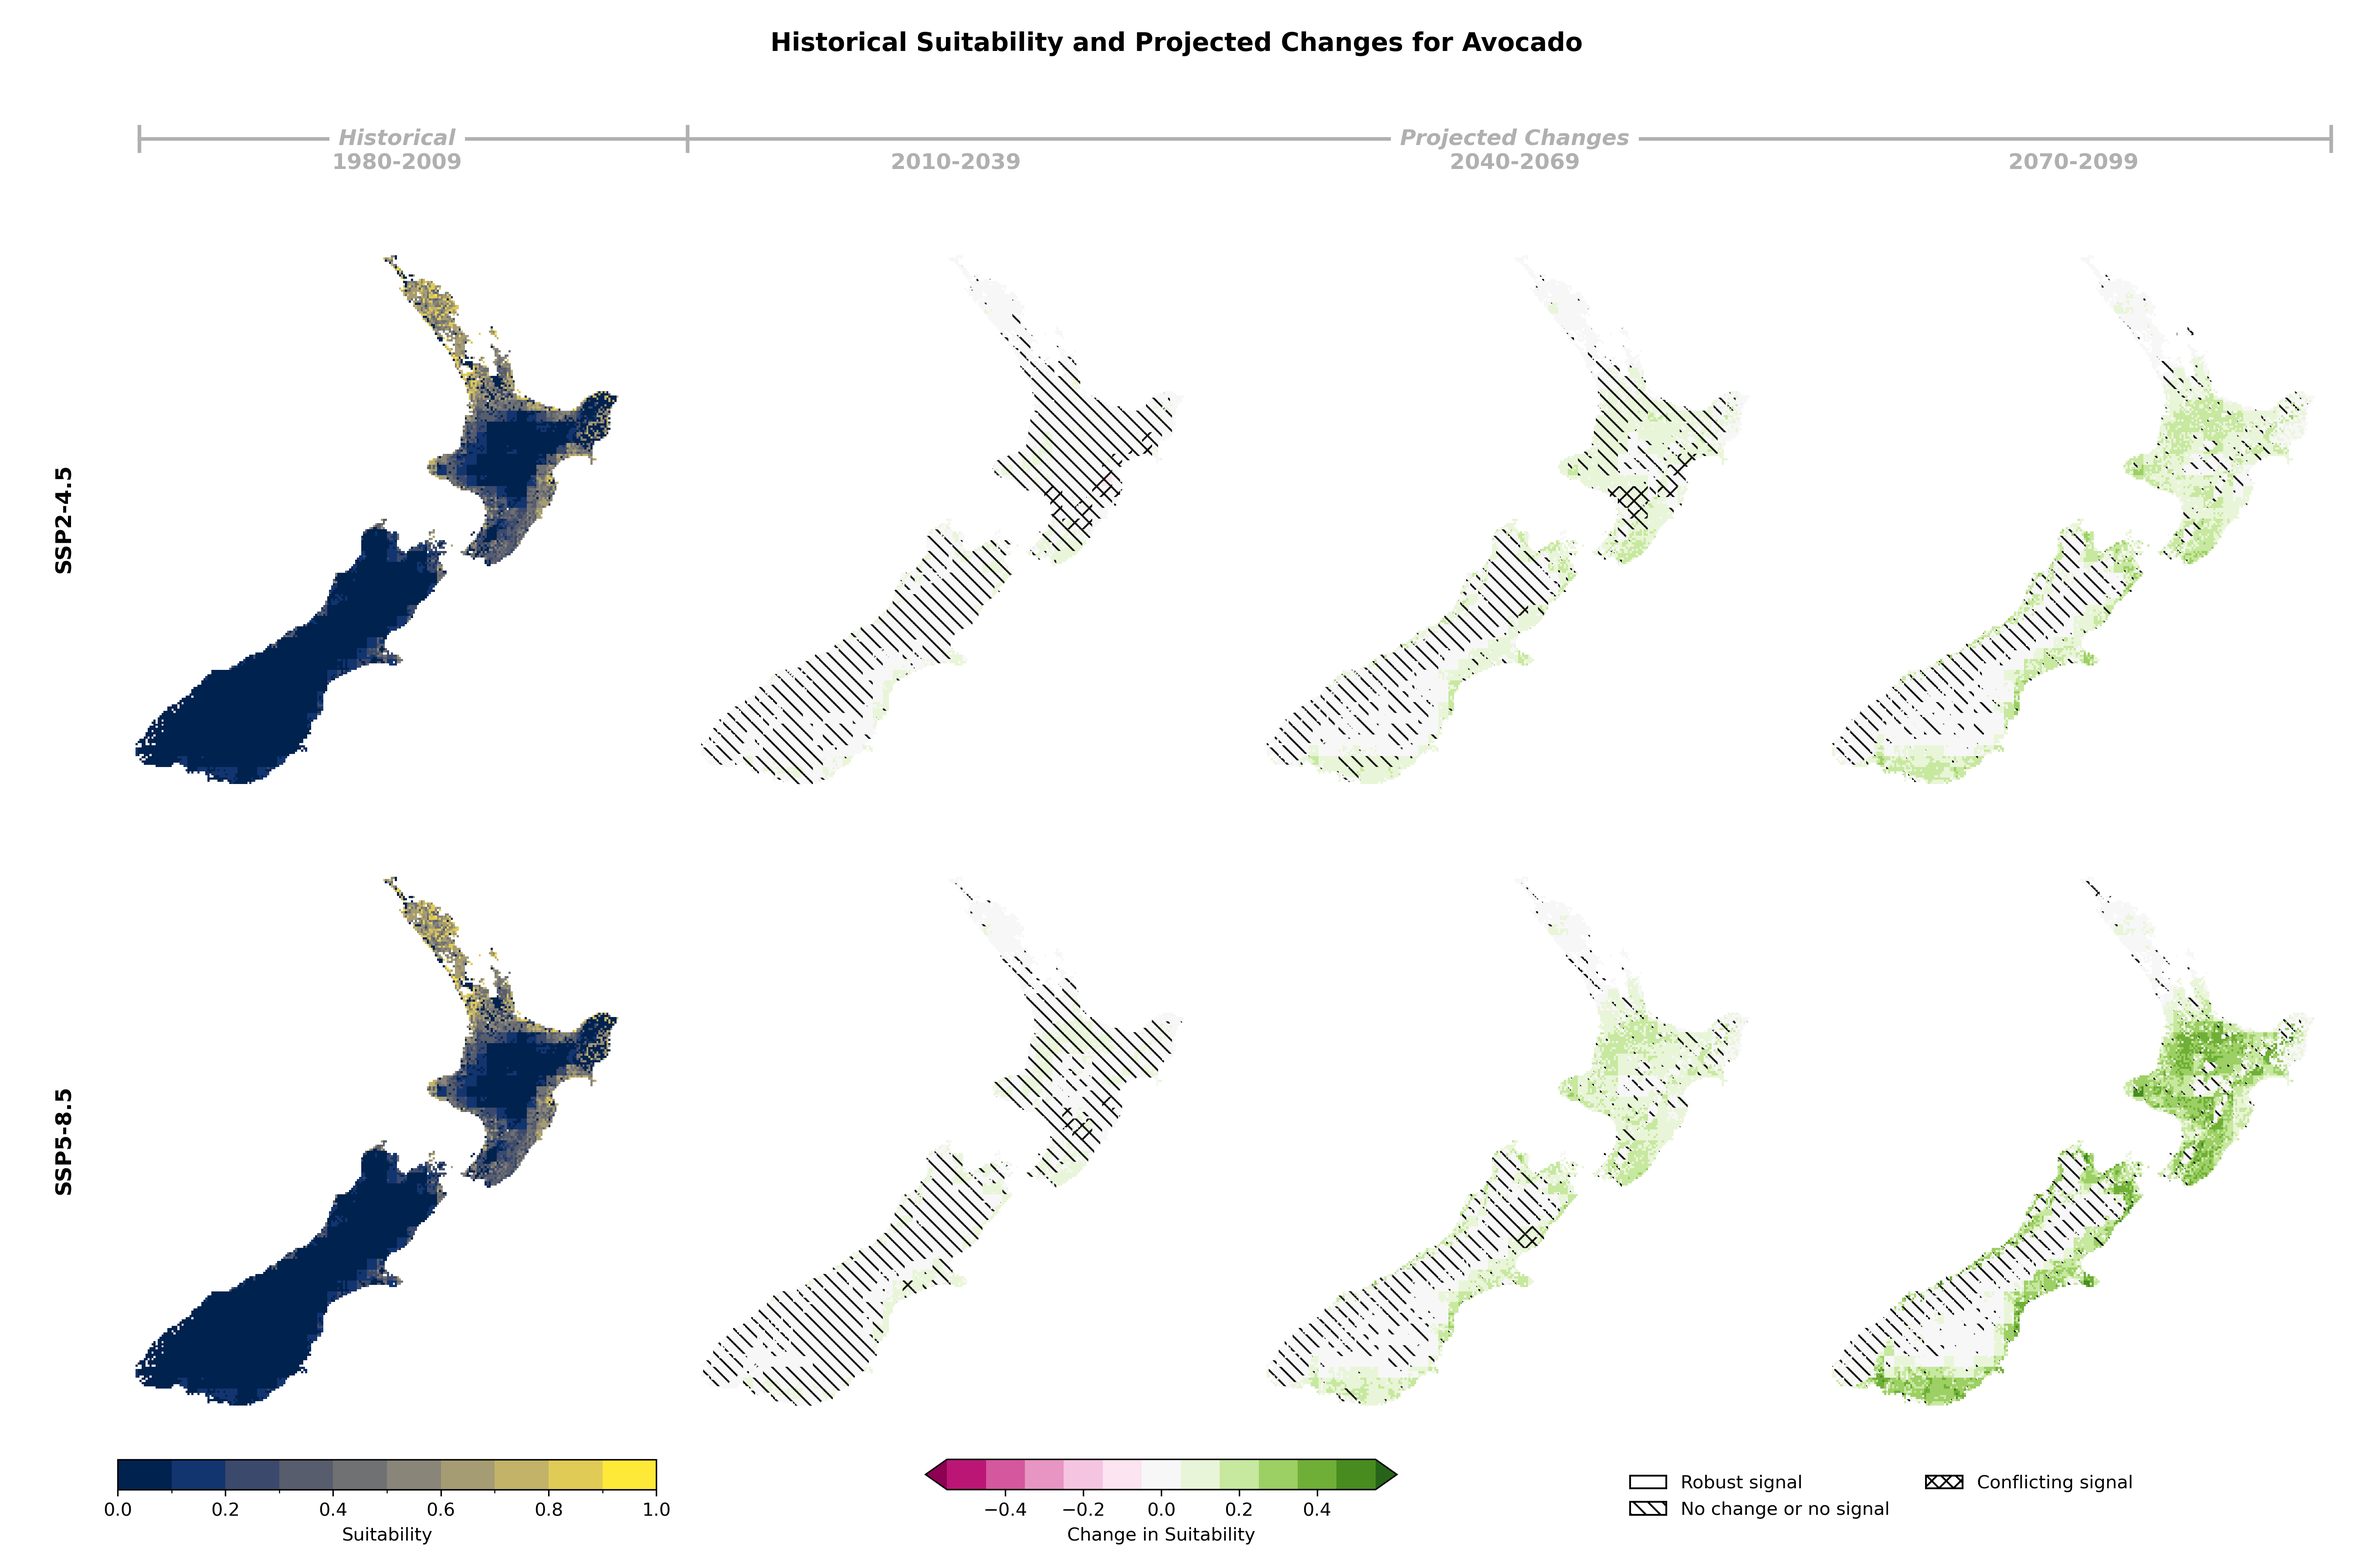
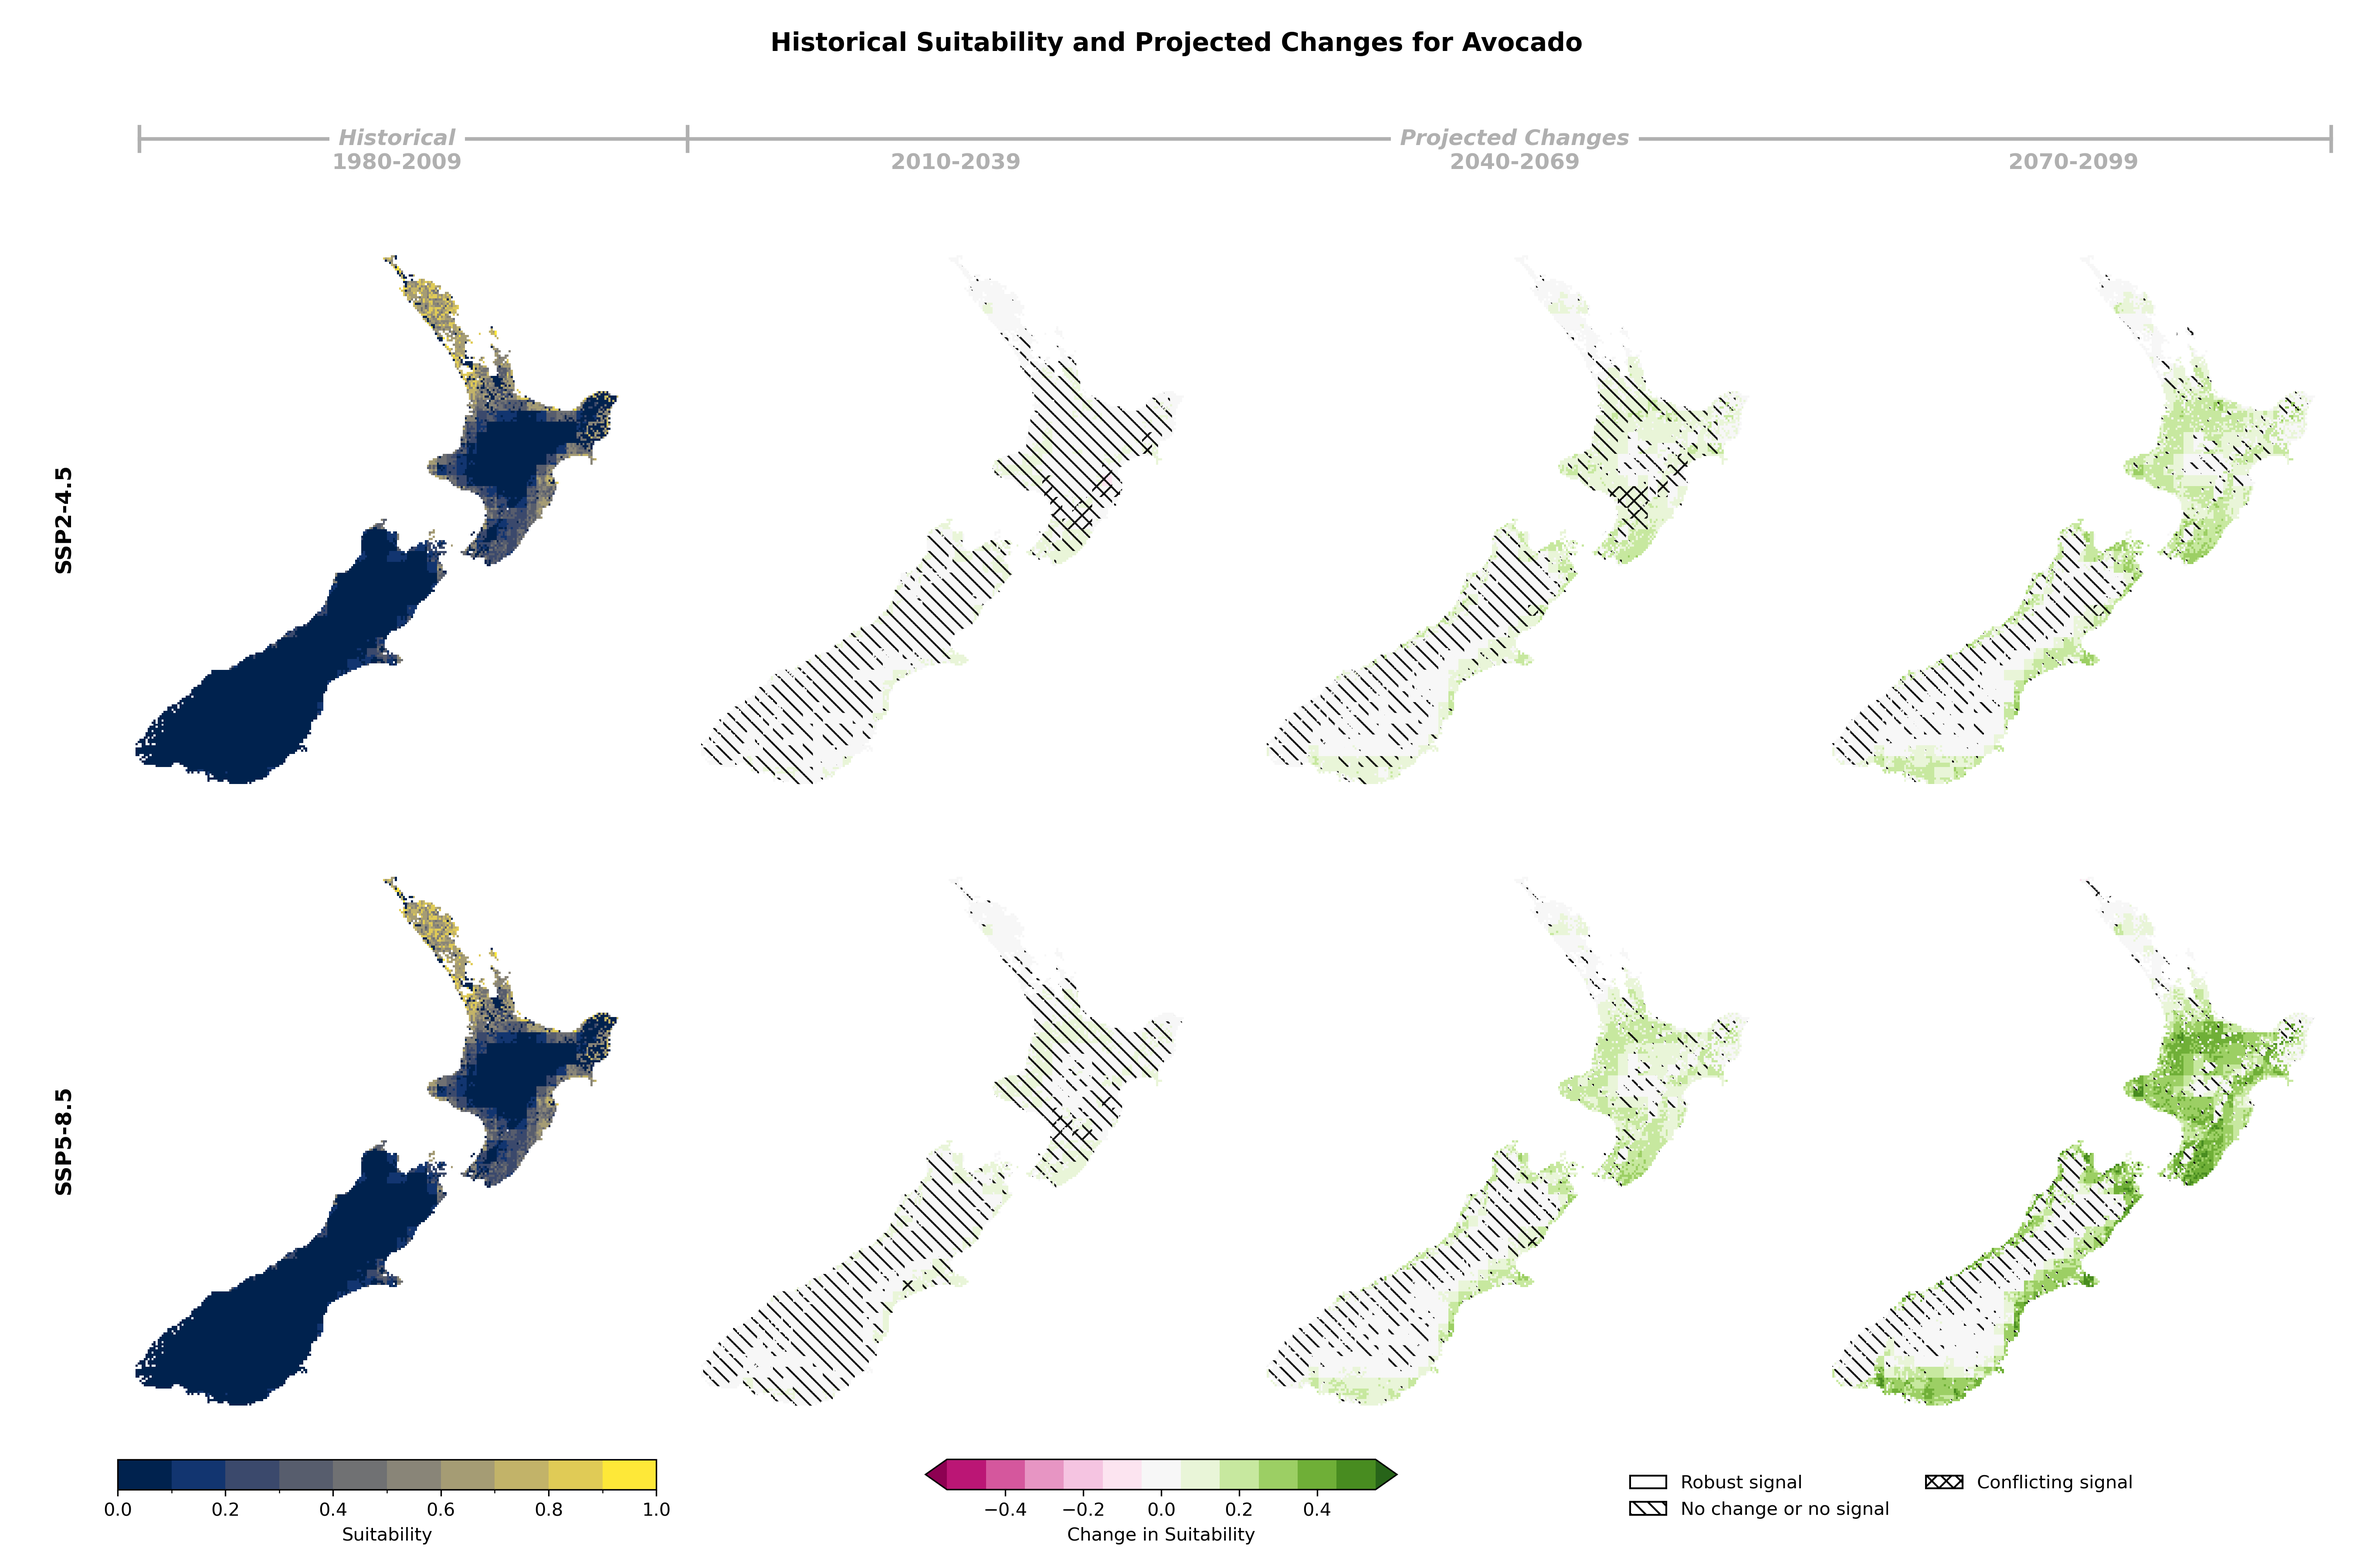
Add Avocado 1km suitability

diff --git a/docs/landuses/avocado.md b/docs/landuses/avocado.md
@@ -8,11 +8,11 @@ title: Avocado
 
 ### Suitability Values
 
-![](../_static/summary_figs/avocado_suitability_SSP245-SSP585_5km_v1.0.png)
+![](../_static/summary_figs/avocado_suitability_SSP245-SSP585_1km_v1.0.png)
 
 ### Suitability Changes
 
-![](../_static/summary_figs/avocado_suitability_change_SSP245-SSP585_5km_v1.0.png)
+![](../_static/summary_figs/avocado_suitability_change_SSP245-SSP585_1km_v1.0.png)
 
 :::
 
